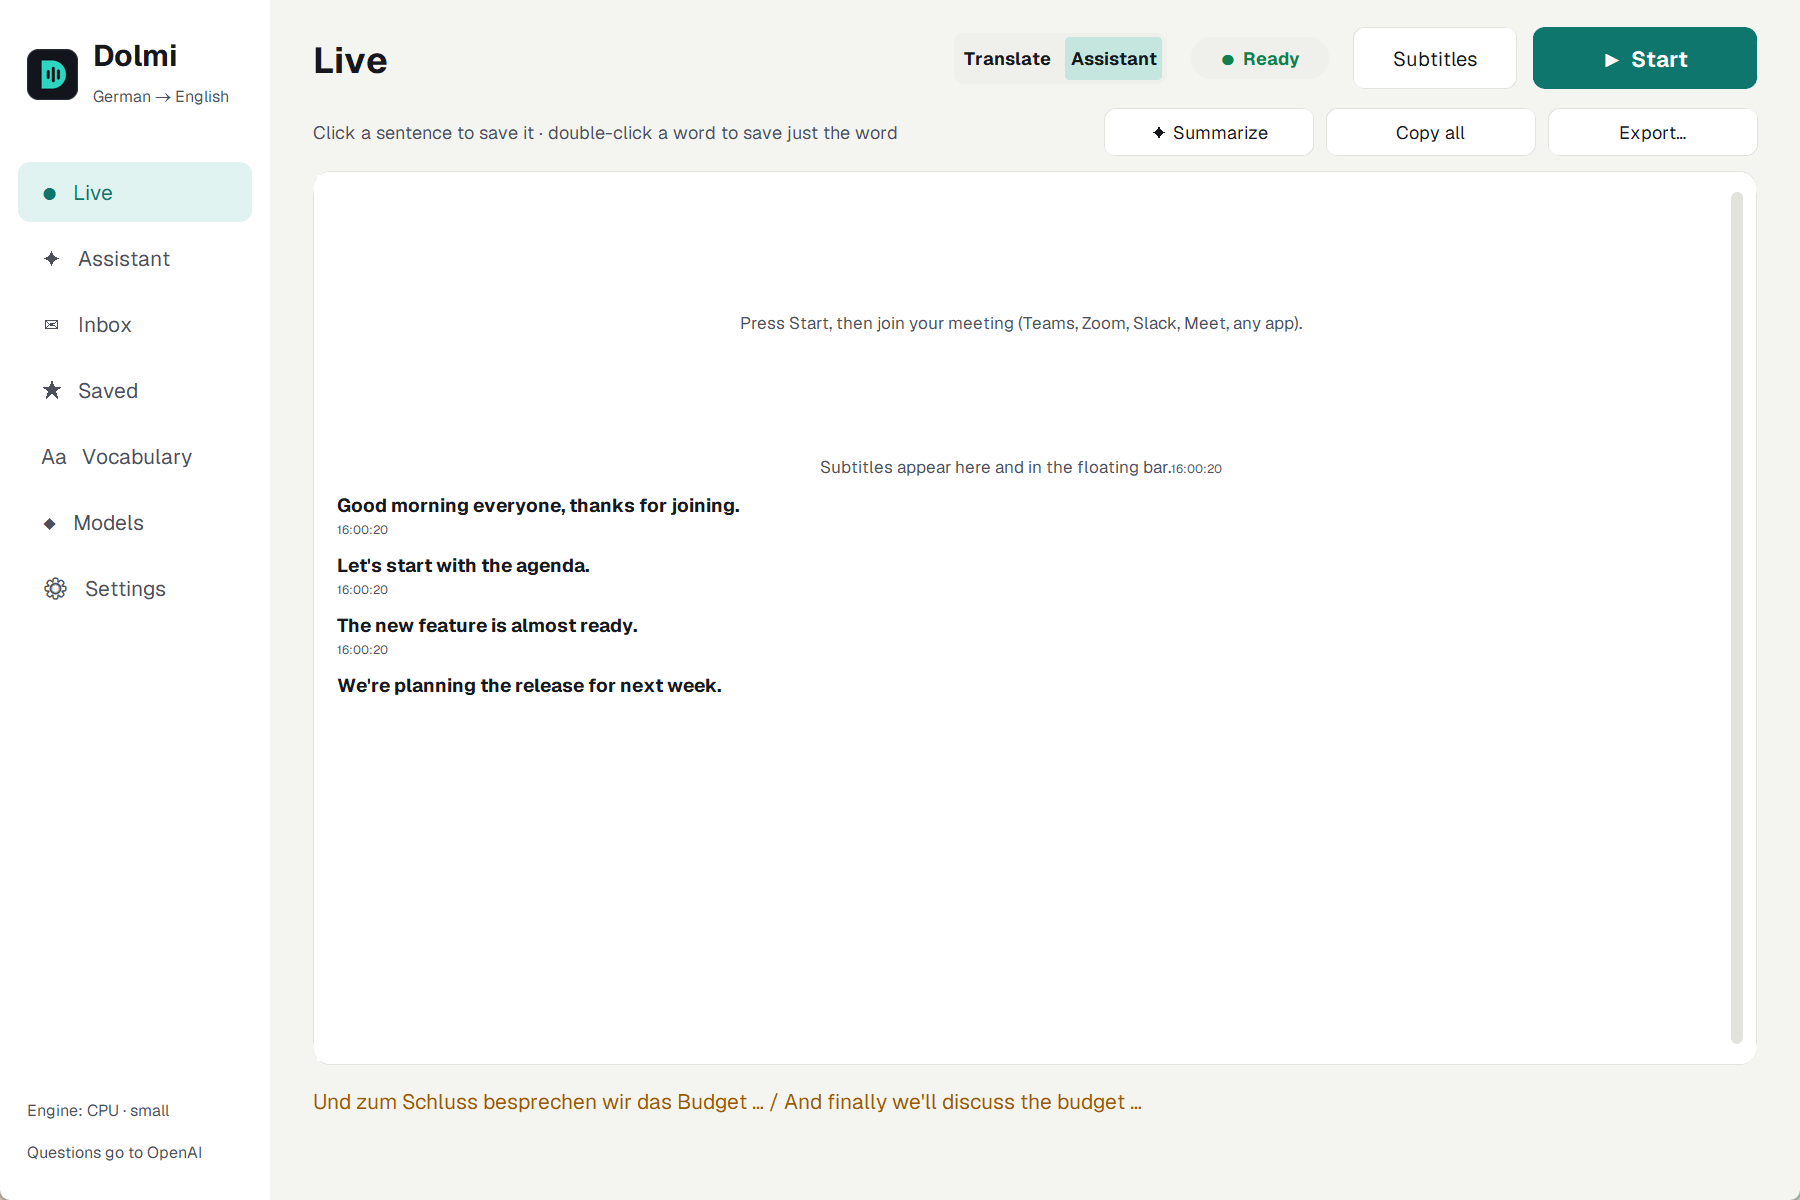
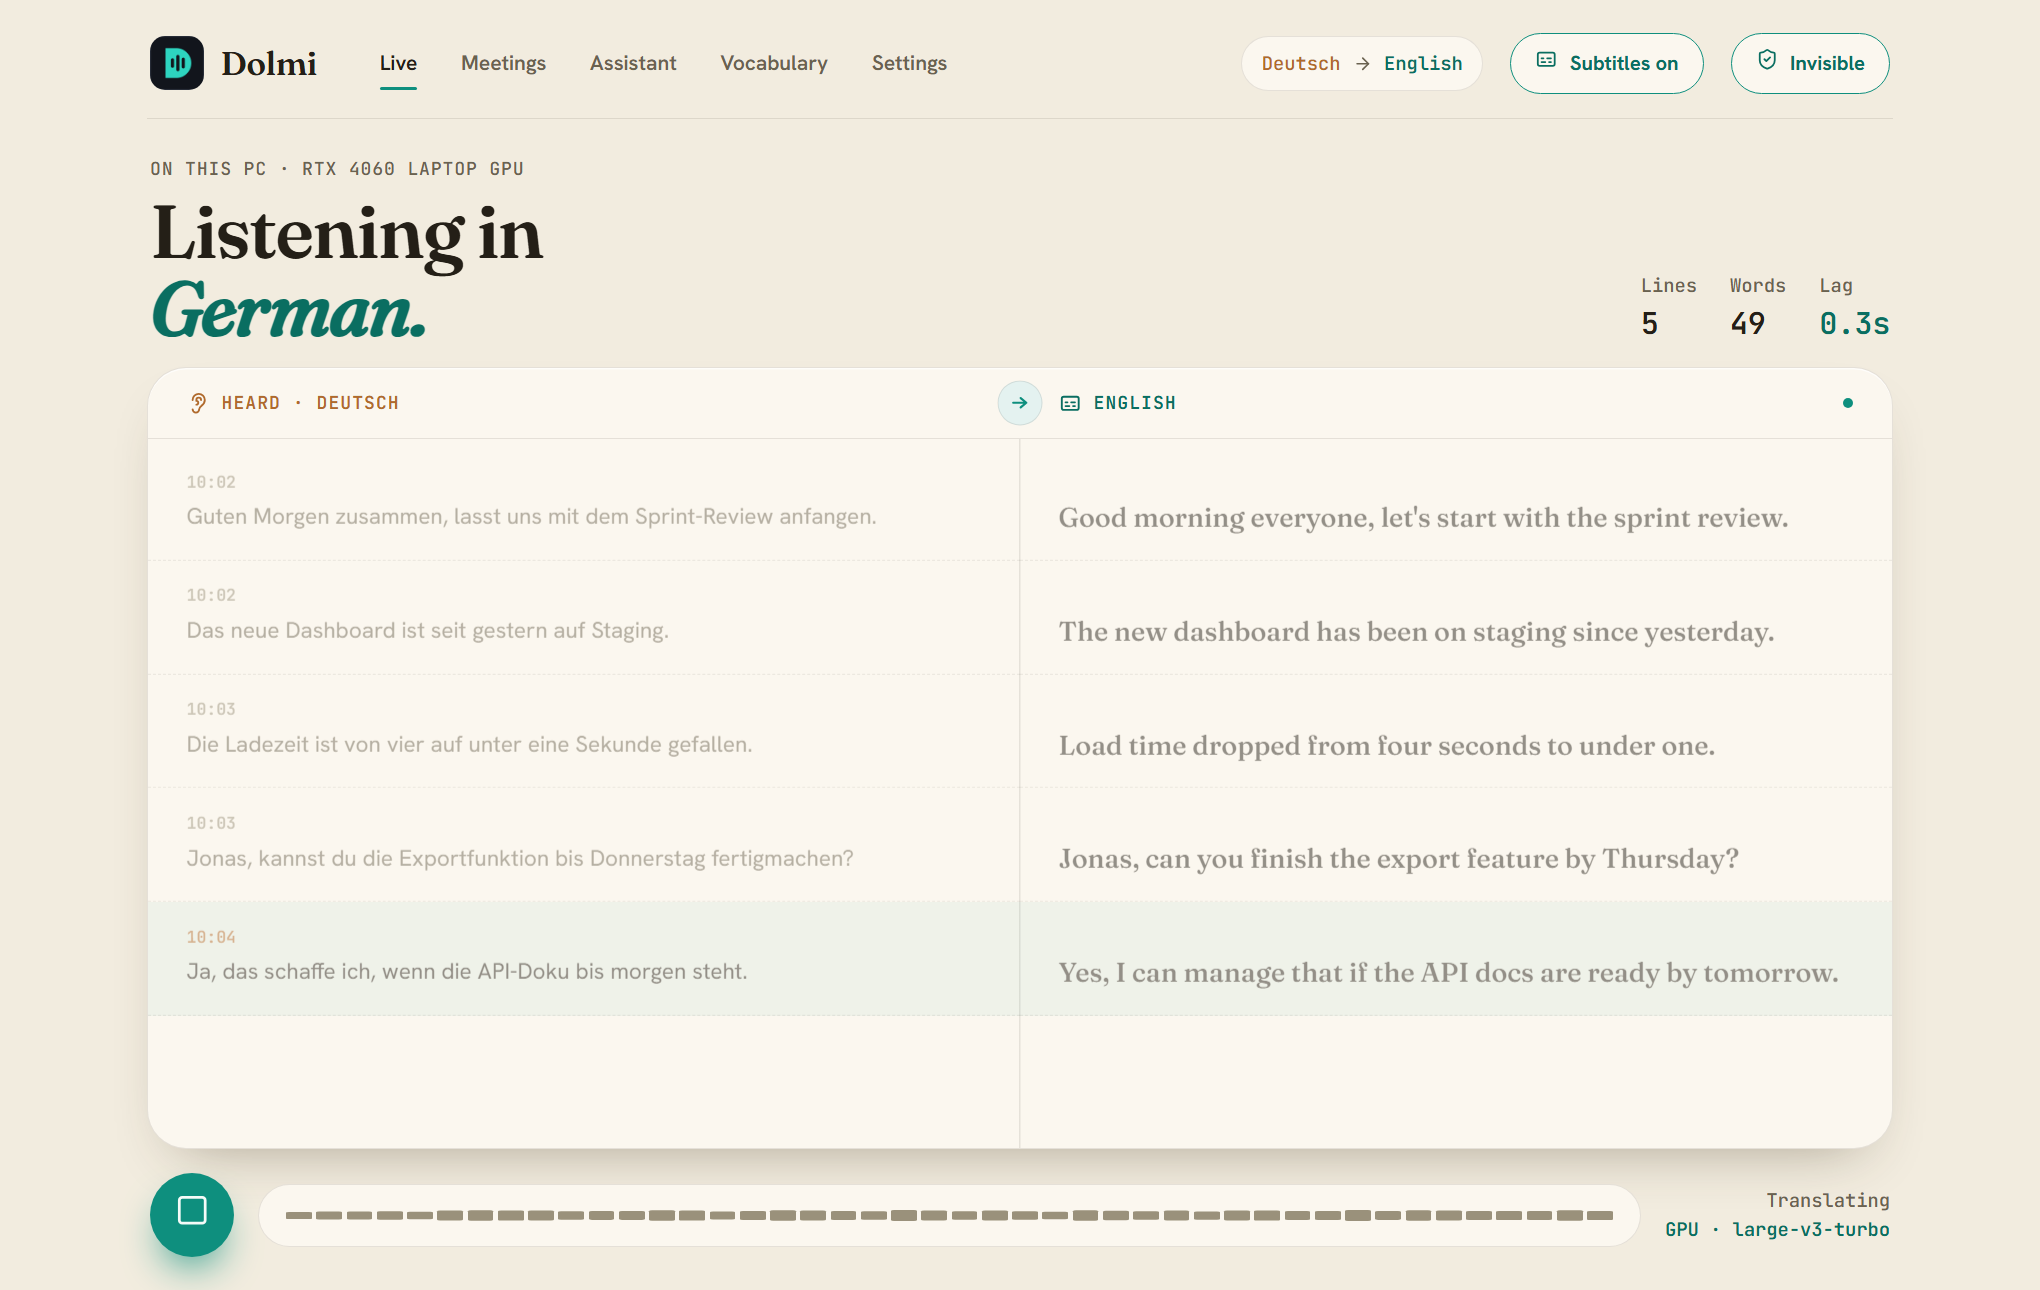
docs: README with new screenshots and features; model downloads are opt-in
Screenshots use fictional sample meetings. Also fixes the mangled installer\build.ps1
and installer\test-install.ps1 paths.

diff --git a/README.md b/README.md
@@ -4,26 +4,83 @@
 
 Dolmi listens to whatever plays through your speakers (Teams, Zoom, Meet, Slack, a browser, anything), transcribes the speech, and shows a live English translation in a floating subtitle bar. German is the default spoken language, with 27+ other languages selectable. Speech recognition and translation run locally and your audio never leaves your PC; only the optional Assistant sends text to the AI provider you choose ([privacy policy](PRIVACY.md)).
 
-> Windows 10 (2004+) / 11. MIT licence. The installer ships the official, PSF-signed Python runtime as its launcher instead of a packaged `.exe`, because Windows Smart App Control blocks unsigned executables.
+> Windows 10 (2004+) / 11. MIT licence. [Download the installer](https://github.com/AnnasMustafaDev/dolmi/releases) — no admin rights needed.
 
-![Dolmi live transcript](assets/screenshots/live.png)
+![Dolmi live view: German on the left, English on the right](assets/screenshots/live.png)
 
-<p align="center"><em>Live view — English subtitles appear as people speak, with the original line kept too. Click a sentence to save it.</em></p>
+<p align="center"><em>Live view — English appears as people speak, with the original German line beside it.</em></p>
 
 ![Dolmi floating subtitle bar](assets/screenshots/overlay.png)
 
-<p align="center"><em>The floating, always-on-top subtitle bar — drag to move, resize from any edge, fits any text size.</em></p>
+<p align="center"><em>The floating subtitle bar — open or close it with the <b>Subtitles</b> button at the top of Dolmi. Always on top, drag to move, resize from the corner, adjustable opacity and text size.</em></p>
 
 ---
 
 ## Features
 
-- **Live subtitles** in a draggable, resizable, always-on-top bar — with the original line underneath, adjustable text size and opacity, and the last few sentences kept on screen.
+- **Live subtitles** in a draggable, resizable, always-on-top bar, with the original line underneath, adjustable text size and opacity.
+- **Invisible mode** — the window and subtitle bar are hidden from screen shares, recordings and the taskbar. `Ctrl+Alt+Shift+D` turns it off.
 - **Any meeting app or browser** — Dolmi captures system audio (WASAPI loopback), so you still hear the meeting and need no virtual audio cable.
 - **Any language → English** — 27+ spoken languages, auto-detect, German by default.
-- **Transcripts** saved per meeting as Markdown + SRT (with real timings); click a sentence or double-click a word to save it.
-- **Vocabulary & glossary** — teach Dolmi your names, products and terms so they're spelled and translated correctly, editable in-app and applied without a restart.
-- **Models tab** — download, remove and switch speech models; each shows its size, accuracy and whether your PC can run it.
+- **You choose the models** — *Settings → This PC & speech models* detects your GPU, RAM and CPU, says how well each Whisper model runs on *this* PC, and lets you download, switch or remove them. Nothing large downloads without asking: if Start needs a model you don't have, Dolmi shows what it needs and how big it is first.
+- **Meetings** — every session saved as Markdown + SRT in both languages. Copy, archive, delete, or summarize any meeting.
+- **Assistant** — ask about the meeting while it happens ("what did Jonas commit to?"). Chats are searchable, and can be copied, archived or deleted. Uses your own Claude or OpenAI key; optional.
+- **Vocabulary & glossary** — teach Dolmi your names, products and terms so they're spelled and translated correctly, applied without a restart.
+- **Privacy controls** — turn off saving, or auto-delete files after 7, 30 or 90 days. No account, no telemetry.
+- **Proper Windows app** — a signed-runtime installer with Start-menu shortcut, clean upgrades and uninstall, light (Paper) and dark (Ink) themes, and a UI that works fully offline.
+
+---
+
+## Screenshots
+
+**This PC & speech models** — detected hardware, how each model fits it, and one-click download, use or remove:
+
+![Dolmi speech models in Settings](assets/screenshots/models.png)
+
+**Start asks before downloading** — pick another model or download the suggested one:
+
+![Dolmi asks before downloading models](assets/screenshots/download-prompt.png)
+
+**Meetings** — every session in both languages, with copy, archive, delete and summarize:
+
+![Dolmi meetings](assets/screenshots/meetings.png)
+
+**Assistant** — questions about the meeting, answered from the live transcript:
+
+![Dolmi assistant](assets/screenshots/assistant.png)
+
+<sub>Screenshots use fictional sample meetings.</sub>
+
+---
+
+## Install
+
+1. Download **`Dolmi-Setup-x.y.z.exe`** from [Releases](https://github.com/AnnasMustafaDev/dolmi/releases).
+2. Run it. No admin rights are needed: it installs for your user, and offers "all users" if you prefer.
+3. Optional during setup: tick **GPU speech recognition** if you have an NVIDIA card (downloads about 1.3 GB). Dolmi then uses Whisper Large v3 Turbo on the GPU.
+4. Open Dolmi. In *Settings → This PC & speech models*, download the model you want — or just press **▶ Start** and Dolmi offers the one that suits your PC. Models download once and then work offline.
+
+The installer isn't code-signed yet, so Windows may show *"Windows protected your PC"*. Click **More info → Run anyway**. On PCs with **Smart App Control** turned on, unsigned installers can be blocked entirely.
+
+Uninstall from *Settings → Apps*. Your transcripts (`Documents\Dolmi`), settings (`%APPDATA%\Dolmi`) and models are kept.
+
+### Which speech model?
+
+| Model | Size | Good for |
+|---|---|---|
+| Whisper Small | 486 MB | PCs without an NVIDIA GPU (Auto's pick) |
+| Whisper Medium | 1.5 GB | Better names and terms; adds 2–4 s on a CPU |
+| Whisper Large v3 Turbo | 1.6 GB | NVIDIA GPU (Auto's pick) — near-best accuracy, still fast |
+| Whisper Large v3 | 3.1 GB | Highest accuracy; needs an NVIDIA GPU for live use |
+
+Tiny and Base are there for very weak PCs. Each language also needs a ~150 MB translator. All of them live in `%USERPROFILE%\.cache\huggingface\hub`.
+
+### Run from source
+
+1. Install **Python 3.12** from [python.org](https://www.python.org/downloads/) (tick *Add to PATH*), then clone this repo.
+2. Double-click **`start.bat`**. It creates a virtual environment, installs dependencies, adds Desktop and Start Menu shortcuts, and starts Dolmi.
+
+Build the installer yourself with Inno Setup 6.7+ (`winget install -e --id JRSoftware.InnoSetup`): `powershell -ExecutionPolicy Bypass -File installer\build.ps1`.
 
 ---
 
@@ -40,46 +97,18 @@ App plays audio ─► WASAPI loopback capture (you still hear it)
 | Part | Choice |
 |---|---|
 | Audio capture | `pyaudiowpatch` (WASAPI loopback) |
-| Speech recognition | `faster-whisper` — `small` on CPU, `large-v3-turbo` on an NVIDIA GPU |
+| Speech recognition | `faster-whisper` — `small` on CPU, `large-v3-turbo` on an NVIDIA GPU, or the model you pick |
 | Translation | Helsinki-NLP Opus-MT, run with CTranslate2 (no PyTorch) |
 | UI | HTML/CSS in a native window (pywebview + WebView2); the subtitle bar is a frameless, transparent webview |
-| Installer | Inno Setup `setup.exe` with the bundled, PSF-signed embeddable Python |
+| Installer | Inno Setup `setup.exe` with the bundled, PSF-signed embeddable Python as the launcher (Smart App Control blocks unsigned executables) |
 
 See [SPECS.md](SPECS.md) for the full technical details, models, languages and system requirements.
 
 ---
 
-## Screenshots
-
-**Models tab** — download, switch and remove speech models, each labelled for your PC:
-
-![Dolmi Models](assets/screenshots/models.png)
-
----
-
-## Install
-
-1. Download **`Dolmi-Setup-x.y.z.exe`** from [Releases](https://github.com/AnnasMustafaDev/dolmi/releases).
-2. Run it. No admin rights are needed: it installs for your user, and offers "all users" if you prefer.
-3. Optional during setup: tick **GPU speech recognition** if you have an NVIDIA card (downloads about 1.3 GB). Dolmi then uses Whisper large-v3-turbo on the GPU.
-4. Open Dolmi, press **▶ Start**, and join your meeting. The first start downloads the speech model once; *Settings → This PC & models* shows its progress and what your PC can run.
-
-The installer isn't code-signed yet, so Windows may show *"Windows protected your PC"*. Click **More info → Run anyway**. On PCs with **Smart App Control** turned on, unsigned installers can be blocked entirely.
-
-Uninstall from *Settings → Apps*. Your transcripts (`Documents\Dolmi`) and settings (`%APPDATA%\Dolmi`) are kept.
-
-### Run from source
-
-1. Install **Python 3.12** from [python.org](https://www.python.org/downloads/) (tick *Add to PATH*), then clone this repo.
-2. Double-click **`start.bat`**. It creates a virtual environment, installs dependencies, adds Desktop and Start Menu shortcuts, and starts Dolmi.
-
-Build the installer yourself with Inno Setup 6.7+ (`winget install -e --id JRSoftware.InnoSetup`): `powershell -ExecutionPolicy Bypass -File installeruild.ps1`.
-
----
-
 ## Privacy
 
-No account, no telemetry, no analytics. Speech recognition and translation run entirely on your PC. Dolmi uses the network only for the optional Assistant and summaries (your chosen AI provider), to download models once (Hugging Face), and for the optional GPU add-on at setup (PyPI). Details: [PRIVACY.md](PRIVACY.md).
+No account, no telemetry, no analytics. Speech recognition and translation run entirely on your PC. Dolmi uses the network only for the optional Assistant and summaries (your chosen AI provider), to download the models you choose (Hugging Face), and for the optional GPU add-on at setup (PyPI). Details: [PRIVACY.md](PRIVACY.md).
 
 Transcribing other people processes their personal data, so tell meeting participants you are using live transcription. Dolmi shows a one-time reminder and lets you turn off saving or auto-delete old files in Settings. *(Not legal advice.)*
 
@@ -103,9 +132,9 @@ venv\Scripts\python.exe -m pytest tests/test_helpers.py
 venv\Scripts\python.exe tests/test_webview_bridge.py
 ```
 
-The helper tests cover the transcript, vocabulary and question-detection logic. The bridge tests exercise the webview API headlessly: captions, meetings, vocabulary, chats, archive, settings and models. Neither touches the network.
+The helper tests cover the transcript, vocabulary and question-detection logic. The bridge tests exercise the webview API headlessly: captions, meetings, vocabulary, chats, archive, settings and model choice (including that Start never downloads without asking). Neither touches the network.
 
-`installer	est-install.ps1` installs, launches, upgrades and uninstalls a built `setup.exe`. It runs on GitHub's Windows runners for every release (*Actions → Installer test* runs it on demand). On a PC with Smart App Control on, it stops safely, because Windows blocks unsigned installers there.
+`installer\test-install.ps1` installs, launches, upgrades and uninstalls a built `setup.exe`. It runs on GitHub's Windows runners for every release (*Actions → Installer test* runs it on demand). On a PC with Smart App Control on, it stops safely, because Windows blocks unsigned installers there.
 
 ---
 

diff --git a/design/INSTALLER-PLAN.md b/design/INSTALLER-PLAN.md
@@ -22,7 +22,7 @@
 | Scope | Per user by default (`PrivilegesRequired=lowest`), "all users" offered in a dialog | No admin prompt. `/CURRENTUSER` and `/ALLUSERS` work for package managers. |
 | AppId | `{01C6145B-761B-4EB9-A11D-36BEE004B479}` | **Never change it.** Upgrades and the single Apps & features entry depend on it. |
 | GPU | Optional task: pip installs `nvidia-cublas-cu12` + `nvidia-cudnn-cu12` (~1.3 GB) into `{app}\gpu` | Keeps `setup.exe` small. With these libraries, Auto picks Whisper large-v3-turbo on CUDA. |
-| Models | Not bundled; downloaded on first use or from *Settings → This PC & models*, with progress shown | A single speech model is 0.5–3 GB, and which one fits depends on the PC. Settings shows what the PC can run. |
+| Models | Not bundled. The user picks and downloads them in *Settings → This PC & speech models*; if Start needs a missing model, Dolmi asks first (size shown) instead of downloading silently | A single speech model is 0.5–3 GB, and which one fits depends on the PC. Settings shows what the PC can run. |
 | Web assets | Fonts and icons vendored into `src/ui/web/vendor` | Works offline, and nothing contacts a font server or CDN. |
 
 ## Where things live

diff --git a/PRIVACY.md b/PRIVACY.md
@@ -17,7 +17,7 @@ That provider's own terms and privacy policy apply to this data: [Anthropic](htt
 
 ## 2. Speech and translation models — downloaded from Hugging Face
 
-The first time you start a session, or when you press **Download** in Settings, Dolmi downloads its models from [Hugging Face](https://huggingface.co): the Whisper speech model and the Opus-MT translator for your language. This happens once per model. The download sends no personal data, only what any download sends, such as your IP address.
+When you press **Download** in *Settings → This PC & speech models*, or agree to download when Start needs a model you don't have yet, Dolmi downloads its models from [Hugging Face](https://huggingface.co): the Whisper speech model and the Opus-MT translator for your language. This happens once per model. The download sends no personal data, only what any download sends, such as your IP address.
 
 ## 3. GPU add-on (optional) — downloaded from PyPI
 
